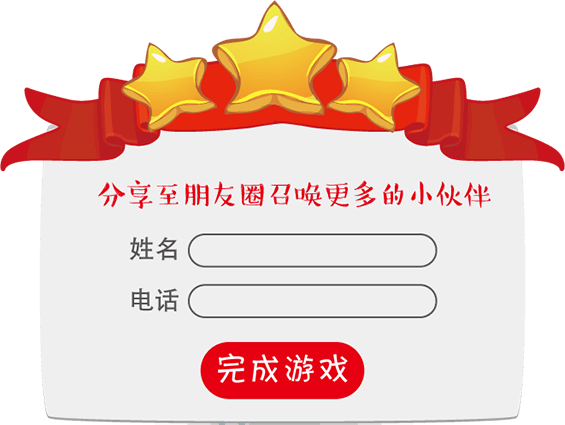
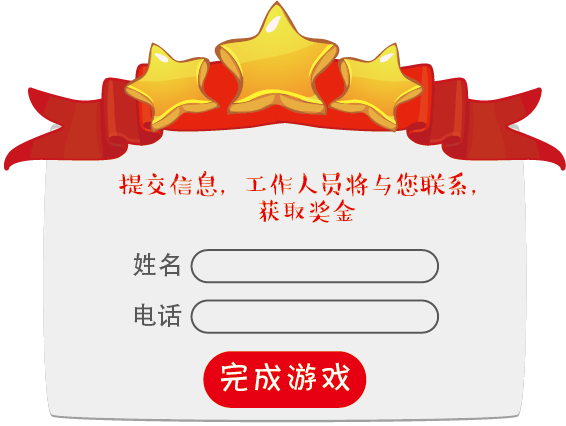
修改

diff --git a/templates/index.html b/templates/index.html
@@ -293,6 +293,17 @@
             <p class="alertType02Btn absoulteControl" id="subForm"></p>
         </div>
     </div>
+    <div id="subSuccess" class="alertType02 subSuccess fullScreen hide">
+        <div class="alertType02Main absoulteControl">
+            <img src="image/alert/sub_success.png" class="alertType02Bg" alt="">
+            <!-- <form>
+                <input class="u_name" id="useranme" maxlength="50"/>
+                <input class="u_tel" id="phone" value="" maxlength="11" type="tel"/>
+            </form> -->
+            <p style="bottom: 14%;width: 56%;left: 22%;" class="alertType02Btn absoulteControl" id="checkSite"></p>
+            <!-- <p class="alertType02Btn absoulteControl" id="subForm"></p> -->
+        </div>
+    </div>
     <!-- 提交用户信息(end) -->
 
     <!-- 横屏提示(start) -->
@@ -354,7 +365,7 @@
             data.username = $("#useranme").val();
             data.phone = $("#phone").val();
 
-            
+
 
             if (data.phone == '' || data.phone == '') {
                 alert('请填写手机号和姓名');
@@ -371,14 +382,18 @@
                 dataType: "json",
                 success: function(response){
                     if(response.error == 0){
-                        showSiteInfoPage();
+                        $("#subSuccess").show();
                     }else{
                         alert(response.message);
                     }
                 }
             })
 
-        })
+        });
+        $("#checkSite").click(function() {
+            $("#subSuccess").hide();
+            showSiteInfoPage();
+        });
     })
 </script>
 </body>

diff --git a/public/css/base.css b/public/css/base.css
@@ -808,10 +808,17 @@ body {
   bottom: 5%;
   height: 15%;
 }
+.subSuccess .alertType02Main {
+  height: 212px;
+}
+.subSuccess .alertType02Btn {
+  bottom: 5%;
+  height: 15%;
+}
 .u_name,
 .u_tel {
   position: absolute;
-  top: 118px;
+  top: 125px;
   left: 101px;
   border: none;
   padding: 0;
@@ -820,7 +827,7 @@ body {
   background: none;
 }
 .u_tel {
-  top: 143px;
+  top: 150px;
 }
 .logoAmount {
   position: absolute;
